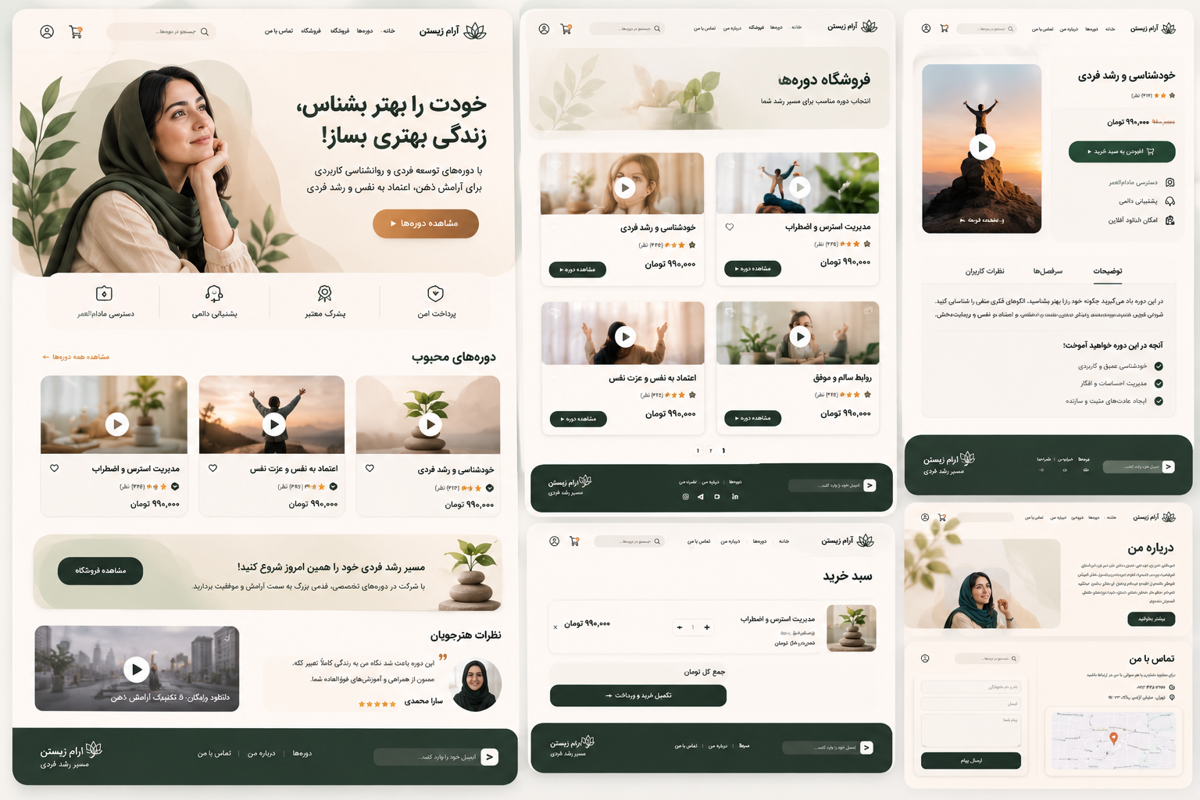
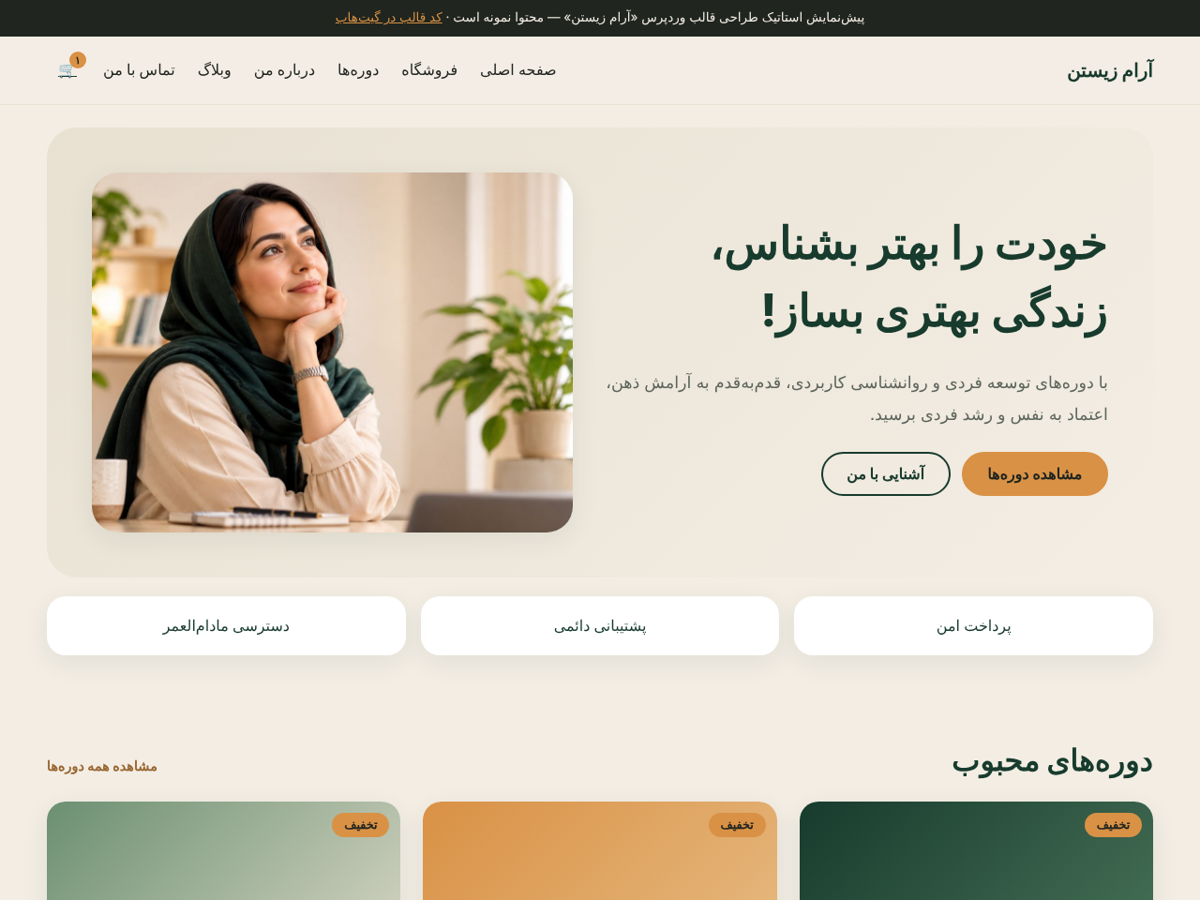
Add files via upload

diff --git a/assets/main.css b/assets/main.css
@@ -1,0 +1,187 @@
+:root{--green:#173B2D;--cream:#F3EDE4;--beige:#E8E1D2;--orange:#D99145;--white:#fff;--text:#20251F;--muted:#5d655c;--r:20px;--shadow:0 8px 28px rgba(23,59,45,.08);--font:'Vazirmatn',Tahoma,system-ui,sans-serif}
+*,*::before,*::after{box-sizing:border-box}
+html{scroll-behavior:smooth}
+body{margin:0;background:var(--cream);color:var(--text);font:400 1rem/1.9 var(--font);direction:rtl;text-align:right;-webkit-font-smoothing:antialiased}
+img{max-width:100%;height:auto;display:block}
+a{color:var(--green)}
+h1,h2,h3{line-height:1.5;color:var(--green);margin:0 0 .5em;font-weight:800}
+h1{font-size:clamp(1.9rem,4vw,3rem)}h2{font-size:clamp(1.4rem,2.6vw,2rem)}h3{font-size:1.15rem}
+.wrap{width:min(1180px,100% - 2rem);margin-inline:auto}
+.narrow{max-width:820px}.center{text-align:center}
+.section{padding-block:clamp(2.5rem,6vw,4.5rem)}
+.sr{position:absolute;width:1px;height:1px;overflow:hidden;clip:rect(0 0 0 0)}
+.skip{position:absolute;inset-inline-start:1rem;top:-4rem;background:var(--green);color:#fff;padding:.5rem 1rem;border-radius:8px;z-index:100}.skip:focus{top:1rem}
+:focus-visible{outline:3px solid var(--orange);outline-offset:2px}
+.notice{background:var(--beige);border-radius:12px;padding:1rem;color:var(--muted)}
+/* buttons */
+.btn,.button,button.button,.woocommerce a.button,.woocommerce button.button,.woocommerce input.button,.woocommerce #respond input#submit{display:inline-flex;align-items:center;justify-content:center;gap:.5rem;background:var(--green);color:#fff;border:2px solid var(--green);border-radius:999px;padding:.7rem 1.6rem;font:700 1rem var(--font);text-decoration:none;cursor:pointer;min-height:46px;transition:background .2s,transform .2s}
+.btn:hover,.woocommerce a.button:hover,.woocommerce button.button:hover{background:#0f2a20;color:#fff}
+.btn-orange{background:var(--orange);border-color:var(--orange);color:#20251F}.btn-orange:hover{background:#c9812f;color:#20251F}
+.btn-ghost{background:transparent;color:var(--green)}.btn-ghost:hover{background:var(--green);color:#fff}
+.btn-sm{padding:.4rem 1.1rem;min-height:38px;font-size:.9rem}
+.woocommerce a.button.alt,.woocommerce button.button.alt,.woocommerce #respond input#submit.alt{background:var(--orange);border-color:var(--orange);color:#20251F}
+.woocommerce a.button.alt:hover,.woocommerce button.button.alt:hover{background:#c9812f;color:#20251F}
+.icon-btn{position:relative;display:inline-flex;align-items:center;justify-content:center;width:44px;height:44px;border:0;background:transparent;color:var(--green);border-radius:50%;cursor:pointer}
+.icon-btn:hover{background:var(--beige)}
+/* header */
+.site-header{position:sticky;top:0;z-index:50;background:rgba(243,237,228,.94);backdrop-filter:blur(8px);border-bottom:1px solid var(--beige)}
+.header-row{display:flex;align-items:center;gap:1rem;min-height:72px}
+.brand{text-decoration:none;font-weight:800;font-size:1.25rem;color:var(--green)}
+.brand img{max-height:48px;width:auto}
+.primary-nav{margin-inline-start:auto}
+.menu{list-style:none;margin:0;padding:0;display:flex;gap:1.5rem}
+.menu a{text-decoration:none;color:var(--text);font-weight:500;padding:.4rem 0;border-bottom:2px solid transparent}
+.menu a:hover,.menu .current-menu-item>a{border-color:var(--orange)}
+.menu li{position:relative}.menu .sub-menu{display:none;position:absolute;inset-inline-start:0;top:100%;background:#fff;list-style:none;margin:0;padding:.5rem;border-radius:12px;box-shadow:var(--shadow);min-width:180px}.menu li:hover>.sub-menu,.menu li:focus-within>.sub-menu{display:block}
+.header-tools{display:flex;align-items:center;gap:.25rem}
+.nav-toggle{display:none}
+.cart-count{position:absolute;top:2px;inset-inline-start:2px;min-width:18px;height:18px;border-radius:9px;background:var(--orange);color:#20251F;font-size:.7rem;font-weight:700;line-height:18px;text-align:center;padding:0 4px}
+.cart-count[data-count="0"]{display:none}
+.header-search{background:var(--beige);padding:.75rem 0}.header-search form{display:flex;gap:.5rem}.header-search input{flex:1}
+/* forms */
+input[type=text],input[type=email],input[type=tel],input[type=search],input[type=number],input[type=password],textarea,select,.woocommerce form .form-row input.input-text,.woocommerce form .form-row textarea{width:100%;padding:.7rem 1rem;border:1.5px solid #cfc7b6;border-radius:14px;background:#fff;font:inherit;color:var(--text)}
+input:focus,textarea:focus,select:focus{border-color:var(--green)}
+.form label{display:block;font-weight:500;margin-bottom:.25rem}
+.form p{margin:0 0 1rem}.field-error{display:block;color:#a12a1f;font-size:.875rem;margin-top:.25rem}
+input.invalid,textarea.invalid{border-color:#a12a1f}
+.form-msg{padding:.75rem 1rem;border-radius:12px}.form-msg.ok{background:#dcebe1;color:#0f3a24}.form-msg.err{background:#f6dcd8;color:#7a1f16}
+.hp{position:absolute;inset-inline-start:-9999px}
+.btn[disabled]{opacity:.6;cursor:wait}
+/* hero */
+.hero{padding-top:1.5rem}
+.hero-grid{display:grid;grid-template-columns:1.05fr 1fr;gap:2rem;align-items:center;background:linear-gradient(135deg,var(--beige),var(--cream));border-radius:32px;padding:clamp(1.5rem,4vw,3rem);overflow:hidden}
+.hero-text p{font-size:1.1rem;color:var(--muted);max-width:34em}
+.actions{display:flex;flex-wrap:wrap;gap:.75rem;margin-top:1.5rem}
+.hero-figure{margin:0}.hero-figure img{border-radius:28px;aspect-ratio:4/3;object-fit:cover;object-position:60% 30%;width:100%;box-shadow:var(--shadow)}
+.trust{list-style:none;display:grid;grid-template-columns:repeat(3,1fr);gap:1rem;padding:0;margin-top:1.25rem}
+.trust li{display:flex;align-items:center;justify-content:center;gap:.6rem;background:#fff;border-radius:var(--r);padding:1rem;box-shadow:var(--shadow);color:var(--green);font-weight:500}
+.page-hero{background:var(--beige);padding:clamp(2rem,5vw,3.5rem) 0}
+.page-hero p{color:var(--muted);max-width:36em}
+.split{display:grid;grid-template-columns:1fr 1fr;gap:2rem;align-items:center}
+.split img{border-radius:var(--r);box-shadow:var(--shadow)}
+/* sections */
+.sec-head{display:flex;justify-content:space-between;align-items:baseline;gap:1rem}
+.more{font-size:.9rem;color:var(--orange);font-weight:700;text-decoration:none;filter:brightness(.7)}
+.about-strip{background:var(--beige)}
+.benefits{list-style:none;display:grid;grid-template-columns:repeat(auto-fit,minmax(170px,1fr));gap:1rem;padding:0}
+.benefits li,.checks li{display:flex;align-items:center;gap:.6rem}
+.benefits li{background:#fff;border-radius:var(--r);padding:1.1rem;box-shadow:var(--shadow);font-weight:500}
+.benefits .icon,.checks .icon{color:var(--green);flex:none}
+.checks{list-style:none;padding:0}.checks li{margin-bottom:.4rem}
+.cta-band{display:flex;flex-wrap:wrap;gap:1.5rem;align-items:center;justify-content:space-between;background:var(--green);color:#fff;border-radius:28px;padding:clamp(1.5rem,4vw,2.5rem)}
+.cta-band h2{color:#fff;margin:0}.cta-band p{margin:.25rem 0 0;color:#e1e8e3}
+/* course cards + WC loop */
+.course-grid,.woocommerce ul.products{display:grid;grid-template-columns:repeat(3,1fr);gap:1.5rem;list-style:none;margin:0;padding:0}
+.woocommerce ul.products::before,.woocommerce ul.products::after{display:none}
+.course-card,.woocommerce ul.products li.product{background:#fff;border-radius:var(--r);box-shadow:var(--shadow);overflow:hidden;width:auto!important;margin:0!important;float:none!important;padding:0 0 1rem;display:flex;flex-direction:column;position:relative}
+.course-thumb{position:relative;display:block}.course-thumb img,.woocommerce ul.products li.product img{width:100%;aspect-ratio:16/11;object-fit:cover;margin:0!important}
+.course-body{padding:1rem 1.25rem 0;display:flex;flex-direction:column;gap:.4rem;flex:1}
+.course-body h3 a,.woocommerce-loop-product__title{color:var(--green);text-decoration:none}
+.course-body p,.loop-desc{margin:0;color:var(--muted);font-size:.92rem;line-height:1.8}
+.course-foot{display:flex;justify-content:space-between;align-items:center;gap:.5rem;margin-top:auto;padding-top:.75rem}
+.price,.woocommerce .price,.woocommerce div.product p.price{color:var(--green)!important;font-weight:800}
+.price del{color:var(--muted);font-weight:400;margin-inline-end:.4rem}.price ins{text-decoration:none}
+.badge,.woocommerce span.onsale{position:absolute;top:12px;inset-inline-start:12px;background:var(--orange);color:#20251F;border-radius:999px;font-weight:700;font-size:.8rem;padding:.15rem .8rem;min-height:0;min-width:0;line-height:1.7;margin:0}
+.woocommerce ul.products li.product .woocommerce-loop-product__title,.woocommerce ul.products li.product .price,.woocommerce ul.products li.product .star-rating,.woocommerce ul.products li.product .loop-desc{margin-inline:1.25rem}
+.woocommerce ul.products li.product .button{margin:.75rem 1.25rem 0;align-self:flex-start}
+.stars{display:inline-flex;color:#cfc7b6}.stars .on{color:var(--orange)}.stars .icon{width:16px;height:16px}
+.woocommerce .star-rating span::before{color:var(--orange)}
+.muted{color:var(--muted);font-size:.85rem}
+/* shop layout */
+.woocommerce-page #main>.woocommerce-notices-wrapper,.woocommerce-page #main>.woocommerce-breadcrumb{width:min(1180px,100% - 2rem);margin:1rem auto 0}
+.archive.woocommerce #primary,.post-type-archive-product #main,.tax-product_cat #main{display:block}
+.shop-wrap{display:grid;grid-template-columns:260px 1fr;gap:2rem}
+.woocommerce .woocommerce-result-count,.woocommerce .woocommerce-ordering{margin-bottom:1rem}
+.shop-side .widget{background:#fff;border-radius:var(--r);padding:1.1rem 1.25rem;box-shadow:var(--shadow);margin-bottom:1rem}
+.shop-side ul{list-style:none;padding:0;margin:0}.shop-side li{padding:.2rem 0}.shop-side a{text-decoration:none}
+.widget-title{font-size:1rem}
+.woocommerce .widget_price_filter .ui-slider .ui-slider-range{background:var(--orange)}
+.woocommerce .widget_price_filter .ui-slider .ui-slider-handle{background:var(--green)}
+.woocommerce nav.woocommerce-pagination ul{border:0;display:flex;gap:.4rem;justify-content:center}
+.woocommerce nav.woocommerce-pagination ul li{border:0}
+.woocommerce nav.woocommerce-pagination ul li a,.woocommerce nav.woocommerce-pagination ul li span{border-radius:50%;min-width:40px;line-height:40px;padding:0;text-align:center;background:#fff}
+.woocommerce nav.woocommerce-pagination ul li span.current{background:var(--green);color:#fff}
+/* single product */
+.woocommerce div.product{display:grid;grid-template-columns:1fr 1fr;gap:2rem;padding-block:2rem}
+.woocommerce div.product div.images,.woocommerce div.product div.summary{float:none;width:auto;margin:0}
+.woocommerce div.product div.images img{border-radius:var(--r)}
+.woocommerce div.product .product_title{font-size:clamp(1.6rem,3vw,2.2rem)}
+.woocommerce div.product p.price{font-size:1.6rem}
+.woocommerce div.product form.cart .button{min-height:54px;font-size:1.1rem;padding-inline:2.5rem;box-shadow:0 8px 20px rgba(217,145,69,.35)}
+.woocommerce .quantity .qty{width:5rem;border-radius:14px;border:1.5px solid #cfc7b6;padding:.6rem}
+.course-features{list-style:none;padding:0;margin:1.25rem 0}.course-features li{display:flex;gap:.6rem;align-items:center;margin-bottom:.3rem}.course-features .icon{color:var(--green)}
+.woocommerce div.product .woocommerce-tabs,.woocommerce div.product .related,.woocommerce div.product .instructor{grid-column:1/-1}
+.woocommerce div.product .woocommerce-tabs ul.tabs{padding:0;margin:0 0 1rem;display:flex;gap:1rem;flex-wrap:wrap;border-bottom:1px solid var(--beige);overflow:visible}
+.woocommerce div.product .woocommerce-tabs ul.tabs::before,.woocommerce div.product .woocommerce-tabs ul.tabs li::before,.woocommerce div.product .woocommerce-tabs ul.tabs li::after{display:none}
+.woocommerce div.product .woocommerce-tabs ul.tabs li{background:none;border:0;margin:0;padding:0;border-radius:0}
+.woocommerce div.product .woocommerce-tabs ul.tabs li a{padding:.6rem .2rem;color:var(--muted);font-weight:700}
+.woocommerce div.product .woocommerce-tabs ul.tabs li.active a{color:var(--green);box-shadow:0 2px 0 var(--orange)}
+.woocommerce div.product .woocommerce-tabs .panel{background:#fff;border-radius:var(--r);padding:1.5rem;box-shadow:var(--shadow)}
+.curriculum{padding-inline-start:1.4rem}.curriculum li{padding:.4rem 0;border-bottom:1px dashed var(--beige)}
+.instructor{display:flex;gap:1.25rem;align-items:center;background:#fff;border-radius:var(--r);padding:1.25rem;box-shadow:var(--shadow)}
+.instructor img{width:96px;height:96px;border-radius:50%;object-fit:cover;object-position:60% 25%}.instructor h3,.instructor p{margin:0 0 .3rem}
+.sticky-cta{display:none}
+/* cart + checkout + account */
+.woocommerce table.shop_table{border:0;border-collapse:separate;border-spacing:0 .75rem;background:none}
+.woocommerce table.shop_table th,.woocommerce table.shop_table td{border:0;background:#fff;padding:1rem}
+.woocommerce table.shop_table td:first-child,.woocommerce table.shop_table th:first-child{border-radius:0 var(--r) var(--r) 0}
+.woocommerce table.shop_table td:last-child,.woocommerce table.shop_table th:last-child{border-radius:var(--r) 0 0 var(--r)}
+.woocommerce table.cart img{width:72px;border-radius:12px}
+.woocommerce a.remove{color:#a12a1f!important;font-size:1.4rem}.woocommerce a.remove:hover{background:#a12a1f;color:#fff!important}
+.woocommerce .cart-collaterals .cart_totals{float:none;width:min(480px,100%);margin-inline-start:0}
+.woocommerce .cart-collaterals .cart_totals h2{font-size:1.3rem}
+.woocommerce #coupon_code{width:12rem;display:inline-block}
+.woocommerce .wc-proceed-to-checkout a.checkout-button{background:var(--green);color:#fff;font-size:1.05rem;padding:1rem}
+.woocommerce-message,.woocommerce-info,.woocommerce-error{border:0;border-radius:14px;background:var(--beige);color:var(--text)}
+.woocommerce-message::before,.woocommerce-info::before{color:var(--green)}
+.woocommerce-checkout #payment{background:var(--beige);border-radius:var(--r)}
+.woocommerce-account .woocommerce-MyAccount-navigation ul{list-style:none;padding:0}
+.entry>.woocommerce,.woocommerce-cart .entry,.woocommerce-checkout .entry,.woocommerce-account .entry{max-width:1100px}
+/* posts, pages */
+.post-grid{display:grid;grid-template-columns:repeat(3,1fr);gap:1.5rem}
+.post-card{background:#fff;border-radius:var(--r);box-shadow:var(--shadow);overflow:hidden}
+.post-card img{width:100%;aspect-ratio:16/10;object-fit:cover}.post-card-body{padding:1rem 1.25rem}.post-card h2,.post-card h3{font-size:1.1rem;margin:0}.post-card a{text-decoration:none}
+.entry img{border-radius:var(--r)}.meta{color:var(--muted)}
+/* testimonials, faq */
+.sec-title{margin-bottom:1.25rem}
+.slider{display:flex;align-items:center;gap:.5rem}
+.slider-track{display:flex;gap:1rem;overflow-x:auto;scroll-snap-type:x mandatory;scrollbar-width:none;flex:1;padding:.5rem .25rem}
+.slider-track::-webkit-scrollbar{display:none}
+.review{flex:0 0 min(360px,85%);scroll-snap-align:start;margin:0;background:#fff;border-radius:var(--r);padding:1.5rem;box-shadow:var(--shadow)}
+.review footer{display:flex;align-items:center;gap:.75rem;margin-top:1rem}.review img{border-radius:50%;width:56px;height:56px;object-fit:cover}.review cite{font-style:normal;font-weight:700;color:var(--green)}
+.faq-item{background:#fff;border-radius:16px;margin-bottom:.75rem;box-shadow:var(--shadow)}
+.faq-item h3{margin:0}.faq-item button{all:unset;box-sizing:border-box;display:flex;justify-content:space-between;width:100%;padding:1rem 1.25rem;cursor:pointer;font-weight:700;color:var(--green)}
+.faq-item button:focus-visible{outline:3px solid var(--orange)}
+.faq-item button::after{content:"+";font-size:1.4rem;line-height:1}.faq-item button[aria-expanded=true]::after{content:"−"}
+.faq-panel{padding:0 1.25rem 1.25rem;color:var(--muted)}
+/* contact */
+.contact-grid{display:grid;grid-template-columns:1.2fr 1fr;gap:2rem}
+.contact-info{background:#fff;border-radius:var(--r);padding:1.5rem;box-shadow:var(--shadow);align-self:start}
+.map{width:100%;height:240px;border:0;border-radius:var(--r);margin-top:1rem}
+.social{display:flex;gap:1rem;flex-wrap:wrap;margin:.75rem 0}
+/* footer */
+.site-footer{background:var(--green);color:#e8efe9;margin-top:3rem;padding:2.5rem 0 1rem;border-radius:32px 32px 0 0}
+.site-footer a{color:#fff}
+.footer-row{display:grid;grid-template-columns:1.2fr 1fr 1.2fr;gap:2rem;align-items:start}
+.footer-brand{display:flex;flex-direction:column;gap:.25rem}.footer-brand strong{font-size:1.3rem;color:#fff}
+.site-footer .menu{flex-direction:column;gap:.4rem}.site-footer .menu a{color:#e8efe9}
+.newsletter{display:flex;flex-direction:column;gap:.75rem;align-items:flex-start}
+.site-footer .btn{background:var(--orange);border-color:var(--orange);color:#20251F}
+.copy{margin-top:2rem;padding-top:1rem;border-top:1px solid rgba(255,255,255,.15);font-size:.85rem;color:#b9c7bd}
+/* responsive */
+@media (max-width:1024px){.course-grid,.woocommerce ul.products,.post-grid{grid-template-columns:repeat(2,1fr)}.hero-grid,.split{grid-template-columns:1fr}.shop-wrap{grid-template-columns:1fr}.footer-row{grid-template-columns:1fr 1fr}}
+@media (max-width:820px){
+	.nav-toggle{display:inline-flex}
+	.primary-nav{position:fixed;inset:72px 0 auto 0;background:var(--cream);padding:1rem;border-bottom:1px solid var(--beige);transform:translateY(-120%);visibility:hidden;transition:transform .25s,visibility .25s;margin:0;max-height:calc(100vh - 72px);overflow:auto}
+	.primary-nav.open{transform:none;visibility:visible}
+	.menu{flex-direction:column;gap:0}.menu a{display:block;padding:.8rem .25rem;border-bottom:1px solid var(--beige)}
+	.menu .sub-menu{position:static;display:block;box-shadow:none;background:none}
+	.brand{margin-inline-end:auto}.header-row{gap:.25rem}
+	.woocommerce div.product{grid-template-columns:1fr}
+	.contact-grid{grid-template-columns:1fr}
+	.sticky-cta{display:flex;position:fixed;inset:auto 0 0 0;z-index:60;background:#fff;box-shadow:0 -6px 20px rgba(0,0,0,.12);padding:.6rem 1rem calc(.6rem + env(safe-area-inset-bottom));align-items:center;justify-content:space-between;gap:1rem}
+	body.single-product{padding-bottom:84px}
+	.woocommerce table.shop_table_responsive tr td{background:#fff}
+}
+@media (max-width:600px){.course-grid,.woocommerce ul.products,.post-grid{grid-template-columns:1fr}.trust{grid-template-columns:1fr}.footer-row{grid-template-columns:1fr}.instructor{flex-direction:column;text-align:center}}
+@media (prefers-reduced-motion:reduce){*{transition:none!important;scroll-behavior:auto!important}}

diff --git a/index.html b/index.html
@@ -1,0 +1,6 @@
+<!DOCTYPE html><html lang="fa" dir="rtl"><head><meta charset="utf-8"><meta name="viewport" content="width=device-width,initial-scale=1"><title>صفحه اصلی | آرام زیستن</title><link rel="stylesheet" href="https://fonts.googleapis.com/css2?family=Vazirmatn:wght@300;400;500;700;800&display=swap"><link rel="stylesheet" href="assets/main.css"><link rel="stylesheet" href="assets/preview.css"></head><body><div class="demo-bar">پیشنمایش استاتیک طراحی قالب وردپرس «آرام زیستن» — محتوا نمونه است · <a href="https://github.com/mohadeseh-tavakoli/Aram-zist">کد قالب در گیتهاب</a></div><header class="site-header"><div class="wrap header-row"><button class="icon-btn nav-toggle" aria-expanded="false" aria-controls="primary-nav" aria-label="منو">☰</button><a class="brand" href="index.html"><span class="brand-name">آرام زیستن</span></a><nav id="primary-nav" class="primary-nav"><ul class="menu"><li><a href="index.html">صفحه اصلی</a></li><li><a href="shop.html">فروشگاه</a></li><li><a href="shop.html">دورهها</a></li><li><a href="about.html">درباره من</a></li><li><a href="index.html">وبلاگ</a></li><li><a href="contact.html">تماس با من</a></li></ul></nav><div class="header-tools"><a class="icon-btn" href="cart.html" aria-label="سبد خرید">🛒<span class="cart-count">۱</span></a></div></div></header><main><section class="hero"><div class="wrap hero-grid"><div class="hero-text"><h1>خودت را بهتر بشناس، زندگی بهتری بساز!</h1><p>با دورههای توسعه فردی و روانشناسی کاربردی، قدمبهقدم به آرامش ذهن، اعتماد به نفس و رشد فردی برسید.</p><div class="actions"><a class="btn btn-orange" href="shop.html">مشاهده دورهها</a><a class="btn btn-ghost" href="about.html">آشنایی با من</a></div></div><figure class="hero-figure"><img src="assets/portrait.jpg" alt="تصویر نمونه"></figure></div><ul class="wrap trust"><li>پرداخت امن</li><li>پشتیبانی دائمی</li><li>دسترسی مادامالعمر</li></ul></section>
+<section class="section wrap"><div class="sec-head"><h2 class="sec-title">دورههای محبوب</h2><a class="more" href="shop.html">مشاهده همه دورهها</a></div><div class="course-grid"><article class="course-card"><a class="course-thumb" href="product.html"><span class="ph g1"></span><span class="badge">تخفیف</span></a><div class="course-body"><h3><a href="product.html">خودشناسی و رشد فردی</a></h3><p>توضیح کوتاه نمونه دربارهٔ دوره.</p><div class="course-foot"><span class="price"><del>۱٬۲۹۰٬۰۰۰</del> ۹۹۰٬۰۰۰ تومان</span><a class="btn btn-sm" href="product.html">مشاهده دوره</a></div></div></article><article class="course-card"><a class="course-thumb" href="product.html"><span class="ph g2"></span><span class="badge">تخفیف</span></a><div class="course-body"><h3><a href="product.html">مدیریت استرس و اضطراب</a></h3><p>توضیح کوتاه نمونه دربارهٔ دوره.</p><div class="course-foot"><span class="price"><del>۱٬۲۹۰٬۰۰۰</del> ۹۹۰٬۰۰۰ تومان</span><a class="btn btn-sm" href="product.html">مشاهده دوره</a></div></div></article><article class="course-card"><a class="course-thumb" href="product.html"><span class="ph g3"></span><span class="badge">تخفیف</span></a><div class="course-body"><h3><a href="product.html">اعتماد به نفس و عزت نفس</a></h3><p>توضیح کوتاه نمونه دربارهٔ دوره.</p><div class="course-foot"><span class="price"><del>۱٬۲۹۰٬۰۰۰</del> ۹۹۰٬۰۰۰ تومان</span><a class="btn btn-sm" href="product.html">مشاهده دوره</a></div></div></article></div></section>
+<section class="section about-strip"><div class="wrap split"><img src="assets/portrait.jpg" alt=""><div><h2 class="sec-title">درباره روانشناس</h2><p>متن نمونه برای معرفی کوتاه. در قالب واقعی از بخش شخصیسازی وردپرس ویرایش میشود.</p><a class="btn" href="about.html">بیشتر بخوانید</a></div></div></section>
+<section class="section wrap"><h2 class="sec-title">در این مسیر چه میآموزید؟</h2><ul class="benefits"><li>خودشناسی</li><li>اعتماد به نفس</li><li>مدیریت استرس</li><li>روابط بهتر</li><li>هوش هیجانی</li></ul></section>
+<section class="section wrap narrow"><h2 class="sec-title">سؤالات متداول</h2><div class="faq"><div class="faq-item"><h3><button aria-expanded="false" onclick="var p=this.parentNode.nextElementSibling;var o=this.getAttribute('aria-expanded')=='true';this.setAttribute('aria-expanded',!o);p.hidden=o">آیا دسترسی به دورهها همیشگی است؟</button></h3><div class="faq-panel" hidden>پاسخ نمونه.</div></div></div></section>
+<section class="wrap section"><div class="cta-band"><div><h2>مسیر رشد فردی خود را همین امروز شروع کنید!</h2><p>با شرکت در دورههای تخصصی، قدمی بزرگ بردارید.</p></div><a class="btn btn-orange" href="shop.html">مشاهده فروشگاه</a></div></section></main><footer class="site-footer"><div class="wrap footer-row"><div class="footer-brand"><strong>آرام زیستن</strong><span>مسیر رشد فردی</span></div><nav><ul class="menu"><li><a href="index.html">صفحه اصلی</a></li><li><a href="shop.html">فروشگاه</a></li><li><a href="shop.html">دورهها</a></li><li><a href="about.html">درباره من</a></li><li><a href="index.html">وبلاگ</a></li><li><a href="contact.html">تماس با من</a></li></ul></nav><div class="newsletter"><span>برای مشاوره از فرم تماس استفاده کنید.</span><a class="btn" href="contact.html">تماس با من</a></div></div><div class="wrap copy">© آرام زیستن</div></footer><script>var n=document.querySelector('.nav-toggle'),m=document.getElementById('primary-nav');n.onclick=function(){var o=m.classList.toggle('open');n.setAttribute('aria-expanded',o)}</script></body></html>

diff --git a/shop.html b/shop.html
@@ -1,0 +1,1 @@
+<!DOCTYPE html><html lang="fa" dir="rtl"><head><meta charset="utf-8"><meta name="viewport" content="width=device-width,initial-scale=1"><title>فروشگاه | آرام زیستن</title><link rel="stylesheet" href="https://fonts.googleapis.com/css2?family=Vazirmatn:wght@300;400;500;700;800&display=swap"><link rel="stylesheet" href="assets/main.css"><link rel="stylesheet" href="assets/preview.css"></head><body><div class="demo-bar">پیشنمایش استاتیک طراحی قالب وردپرس «آرام زیستن» — محتوا نمونه است · <a href="https://github.com/mohadeseh-tavakoli/Aram-zist">کد قالب در گیتهاب</a></div><header class="site-header"><div class="wrap header-row"><button class="icon-btn nav-toggle" aria-expanded="false" aria-controls="primary-nav" aria-label="منو">☰</button><a class="brand" href="index.html"><span class="brand-name">آرام زیستن</span></a><nav id="primary-nav" class="primary-nav"><ul class="menu"><li><a href="index.html">صفحه اصلی</a></li><li><a href="shop.html">فروشگاه</a></li><li><a href="shop.html">دورهها</a></li><li><a href="about.html">درباره من</a></li><li><a href="index.html">وبلاگ</a></li><li><a href="contact.html">تماس با من</a></li></ul></nav><div class="header-tools"><a class="icon-btn" href="cart.html" aria-label="سبد خرید">🛒<span class="cart-count">۱</span></a></div></div></header><main><section class="page-hero"><div class="wrap"><h1>فروشگاه دورهها</h1><p>انتخاب دوره مناسب برای مسیر رشد شما</p></div></section><div class="wrap section shop-wrap"><aside class="shop-side"><section class="widget"><h3 class="widget-title">جستجوی دوره</h3><input type="search" placeholder="جستجو…"></section><section class="widget"><h3 class="widget-title">دستهبندیها</h3><ul><li><a href="#">روانشناسی کاربردی</a></li><li><a href="#">مهارتهای ارتباطی</a></li></ul></section></aside><div><div class="course-grid"><article class="course-card"><a class="course-thumb" href="product.html"><span class="ph g1"></span><span class="badge">تخفیف</span></a><div class="course-body"><h3><a href="product.html">خودشناسی و رشد فردی</a></h3><p>توضیح کوتاه نمونه دربارهٔ دوره.</p><div class="course-foot"><span class="price"><del>۱٬۲۹۰٬۰۰۰</del> ۹۹۰٬۰۰۰ تومان</span><a class="btn btn-sm" href="product.html">مشاهده دوره</a></div></div></article><article class="course-card"><a class="course-thumb" href="product.html"><span class="ph g2"></span><span class="badge">تخفیف</span></a><div class="course-body"><h3><a href="product.html">مدیریت استرس و اضطراب</a></h3><p>توضیح کوتاه نمونه دربارهٔ دوره.</p><div class="course-foot"><span class="price"><del>۱٬۲۹۰٬۰۰۰</del> ۹۹۰٬۰۰۰ تومان</span><a class="btn btn-sm" href="product.html">مشاهده دوره</a></div></div></article><article class="course-card"><a class="course-thumb" href="product.html"><span class="ph g3"></span><span class="badge">تخفیف</span></a><div class="course-body"><h3><a href="product.html">اعتماد به نفس و عزت نفس</a></h3><p>توضیح کوتاه نمونه دربارهٔ دوره.</p><div class="course-foot"><span class="price"><del>۱٬۲۹۰٬۰۰۰</del> ۹۹۰٬۰۰۰ تومان</span><a class="btn btn-sm" href="product.html">مشاهده دوره</a></div></div></article><article class="course-card"><a class="course-thumb" href="product.html"><span class="ph g4"></span><span class="badge">تخفیف</span></a><div class="course-body"><h3><a href="product.html">روابط سالم و موفق</a></h3><p>توضیح کوتاه نمونه دربارهٔ دوره.</p><div class="course-foot"><span class="price"><del>۱٬۲۹۰٬۰۰۰</del> ۹۹۰٬۰۰۰ تومان</span><a class="btn btn-sm" href="product.html">مشاهده دوره</a></div></div></article><article class="course-card"><a class="course-thumb" href="product.html"><span class="ph g1"></span><span class="badge">تخفیف</span></a><div class="course-body"><h3><a href="product.html">هوش هیجانی</a></h3><p>توضیح کوتاه نمونه دربارهٔ دوره.</p><div class="course-foot"><span class="price"><del>۱٬۲۹۰٬۰۰۰</del> ۹۹۰٬۰۰۰ تومان</span><a class="btn btn-sm" href="product.html">مشاهده دوره</a></div></div></article><article class="course-card"><a class="course-thumb" href="product.html"><span class="ph g2"></span><span class="badge">تخفیف</span></a><div class="course-body"><h3><a href="product.html">آرامش ذهن</a></h3><p>توضیح کوتاه نمونه دربارهٔ دوره.</p><div class="course-foot"><span class="price"><del>۱٬۲۹۰٬۰۰۰</del> ۹۹۰٬۰۰۰ تومان</span><a class="btn btn-sm" href="product.html">مشاهده دوره</a></div></div></article></div></div></div></main><footer class="site-footer"><div class="wrap footer-row"><div class="footer-brand"><strong>آرام زیستن</strong><span>مسیر رشد فردی</span></div><nav><ul class="menu"><li><a href="index.html">صفحه اصلی</a></li><li><a href="shop.html">فروشگاه</a></li><li><a href="shop.html">دورهها</a></li><li><a href="about.html">درباره من</a></li><li><a href="index.html">وبلاگ</a></li><li><a href="contact.html">تماس با من</a></li></ul></nav><div class="newsletter"><span>برای مشاوره از فرم تماس استفاده کنید.</span><a class="btn" href="contact.html">تماس با من</a></div></div><div class="wrap copy">© آرام زیستن</div></footer><script>var n=document.querySelector('.nav-toggle'),m=document.getElementById('primary-nav');n.onclick=function(){var o=m.classList.toggle('open');n.setAttribute('aria-expanded',o)}</script></body></html>

diff --git a/assets/main.js b/assets/main.js
@@ -1,0 +1,77 @@
+(function () {
+	'use strict';
+	var t = window.aramI18n || {};
+	var $ = function (s, c) { return (c || document).querySelector(s); };
+	var $$ = function (s, c) { return Array.prototype.slice.call((c || document).querySelectorAll(s)); };
+
+	/* Mobile navigation */
+	var navBtn = $('.nav-toggle'), nav = $('#primary-nav');
+	if (navBtn && nav) {
+		navBtn.addEventListener('click', function () {
+			var open = nav.classList.toggle('open');
+			navBtn.setAttribute('aria-expanded', String(open));
+		});
+		document.addEventListener('keydown', function (e) {
+			if (e.key === 'Escape' && nav.classList.contains('open')) { nav.classList.remove('open'); navBtn.setAttribute('aria-expanded', 'false'); navBtn.focus(); }
+		});
+	}
+
+	/* Header search */
+	var sBtn = $('.search-toggle'), sBox = $('#header-search');
+	if (sBtn && sBox) {
+		sBtn.addEventListener('click', function () {
+			var show = sBox.hasAttribute('hidden');
+			if (show) { sBox.removeAttribute('hidden'); $('input[type=search]', sBox).focus(); } else { sBox.setAttribute('hidden', ''); }
+			sBtn.setAttribute('aria-expanded', String(show));
+		});
+	}
+
+	/* FAQ accordion */
+	$$('.faq-item button').forEach(function (b) {
+		b.addEventListener('click', function () {
+			var open = b.getAttribute('aria-expanded') === 'true';
+			b.setAttribute('aria-expanded', String(!open));
+			var p = document.getElementById(b.getAttribute('aria-controls'));
+			if (p) { p.hidden = open; }
+		});
+	});
+
+	/* Testimonial slider (scroll-snap with buttons; RTL aware) */
+	$$('[data-slider]').forEach(function (s) {
+		var track = $('.slider-track', s);
+		var step = function (dir) { track.scrollBy({ left: dir * (track.clientWidth * 0.8), behavior: 'smooth' }); };
+		// In RTL, scrollLeft is negative and "next" moves toward negative values.
+		$('.slider-next', s).addEventListener('click', function () { step(-1); });
+		$('.slider-prev', s).addEventListener('click', function () { step(1); });
+	});
+
+	/* Contact form validation */
+	var form = $('#contact-form');
+	if (form) {
+		var clear = function (f) { f.classList.remove('invalid'); var e = f.parentNode.querySelector('.field-error'); if (e) { e.remove(); } };
+		var fail = function (f, msg) { clear(f); f.classList.add('invalid'); var e = document.createElement('span'); e.className = 'field-error'; e.setAttribute('role', 'alert'); e.textContent = msg; f.parentNode.appendChild(e); return false; };
+		form.addEventListener('submit', function (ev) {
+			var ok = true, first = null;
+			['aram_name', 'aram_email', 'aram_subject', 'aram_message', 'aram_phone'].forEach(function (id) {
+				var f = document.getElementById(id); clear(f);
+				var v = f.value.trim(), bad = false;
+				if (id !== 'aram_phone' && !v) { bad = !fail(f, t.required); }
+				else if (id === 'aram_email' && !/^[^\s@]+@[^\s@]+\.[^\s@]+$/.test(v)) { bad = !fail(f, t.email); }
+				else if (id === 'aram_message' && v.length < 10) { bad = !fail(f, t.short); }
+				else if (id === 'aram_phone' && v && !/^[\d\s+\-()\u06F0-\u06F9]{7,20}$/.test(v)) { bad = !fail(f, t.phone); }
+				if (bad) { ok = false; first = first || f; }
+			});
+			if (!ok) { ev.preventDefault(); first.focus(); return; }
+			var b = $('button[type=submit]', form); b.disabled = true; b.textContent = t.sending;
+		});
+	}
+
+	/* Sticky buy bar: jump to the real WooCommerce add-to-cart form */
+	var buy = $('[data-scroll-buy]');
+	if (buy) {
+		buy.addEventListener('click', function (e) {
+			var f = $('form.cart');
+			if (f) { e.preventDefault(); f.scrollIntoView({ behavior: 'smooth', block: 'center' }); var btn = $('button[type=submit]', f); if (btn) { btn.focus({ preventScroll: true }); } }
+		});
+	}
+})();

diff --git a/product.html b/product.html
@@ -1,0 +1,1 @@
+<!DOCTYPE html><html lang="fa" dir="rtl"><head><meta charset="utf-8"><meta name="viewport" content="width=device-width,initial-scale=1"><title>دوره | آرام زیستن</title><link rel="stylesheet" href="https://fonts.googleapis.com/css2?family=Vazirmatn:wght@300;400;500;700;800&display=swap"><link rel="stylesheet" href="assets/main.css"><link rel="stylesheet" href="assets/preview.css"></head><body><div class="demo-bar">پیشنمایش استاتیک طراحی قالب وردپرس «آرام زیستن» — محتوا نمونه است · <a href="https://github.com/mohadeseh-tavakoli/Aram-zist">کد قالب در گیتهاب</a></div><header class="site-header"><div class="wrap header-row"><button class="icon-btn nav-toggle" aria-expanded="false" aria-controls="primary-nav" aria-label="منو">☰</button><a class="brand" href="index.html"><span class="brand-name">آرام زیستن</span></a><nav id="primary-nav" class="primary-nav"><ul class="menu"><li><a href="index.html">صفحه اصلی</a></li><li><a href="shop.html">فروشگاه</a></li><li><a href="shop.html">دورهها</a></li><li><a href="about.html">درباره من</a></li><li><a href="index.html">وبلاگ</a></li><li><a href="contact.html">تماس با من</a></li></ul></nav><div class="header-tools"><a class="icon-btn" href="cart.html" aria-label="سبد خرید">🛒<span class="cart-count">۱</span></a></div></div></header><main><div class="wrap section"><div style="display:grid;grid-template-columns:repeat(auto-fit,minmax(280px,1fr));gap:2rem"><span class="ph g1" style="border-radius:20px"></span><div><h1>خودشناسی و رشد فردی</h1><p class="price"><del>۱٬۲۹۰٬۰۰۰</del> ۹۹۰٬۰۰۰ تومان</p><p>توضیح کوتاه نمونه دربارهٔ دوره.</p><a class="btn btn-orange" href="cart.html">افزودن به سبد خرید</a><ul class="course-features"><li>✓ دسترسی همیشگی</li><li>✓ پشتیبانی دائمی</li></ul></div></div><h3>سرفصلها</h3><ol class="curriculum"><li>مقدمه</li><li>شناخت ارزشها</li><li>مدیریت افکار</li></ol></div></main><footer class="site-footer"><div class="wrap footer-row"><div class="footer-brand"><strong>آرام زیستن</strong><span>مسیر رشد فردی</span></div><nav><ul class="menu"><li><a href="index.html">صفحه اصلی</a></li><li><a href="shop.html">فروشگاه</a></li><li><a href="shop.html">دورهها</a></li><li><a href="about.html">درباره من</a></li><li><a href="index.html">وبلاگ</a></li><li><a href="contact.html">تماس با من</a></li></ul></nav><div class="newsletter"><span>برای مشاوره از فرم تماس استفاده کنید.</span><a class="btn" href="contact.html">تماس با من</a></div></div><div class="wrap copy">© آرام زیستن</div></footer><script>var n=document.querySelector('.nav-toggle'),m=document.getElementById('primary-nav');n.onclick=function(){var o=m.classList.toggle('open');n.setAttribute('aria-expanded',o)}</script></body></html>

diff --git a/contact.html b/contact.html
@@ -1,0 +1,1 @@
+<!DOCTYPE html><html lang="fa" dir="rtl"><head><meta charset="utf-8"><meta name="viewport" content="width=device-width,initial-scale=1"><title>تماس | آرام زیستن</title><link rel="stylesheet" href="https://fonts.googleapis.com/css2?family=Vazirmatn:wght@300;400;500;700;800&display=swap"><link rel="stylesheet" href="assets/main.css"><link rel="stylesheet" href="assets/preview.css"></head><body><div class="demo-bar">پیشنمایش استاتیک طراحی قالب وردپرس «آرام زیستن» — محتوا نمونه است · <a href="https://github.com/mohadeseh-tavakoli/Aram-zist">کد قالب در گیتهاب</a></div><header class="site-header"><div class="wrap header-row"><button class="icon-btn nav-toggle" aria-expanded="false" aria-controls="primary-nav" aria-label="منو">☰</button><a class="brand" href="index.html"><span class="brand-name">آرام زیستن</span></a><nav id="primary-nav" class="primary-nav"><ul class="menu"><li><a href="index.html">صفحه اصلی</a></li><li><a href="shop.html">فروشگاه</a></li><li><a href="shop.html">دورهها</a></li><li><a href="about.html">درباره من</a></li><li><a href="index.html">وبلاگ</a></li><li><a href="contact.html">تماس با من</a></li></ul></nav><div class="header-tools"><a class="icon-btn" href="cart.html" aria-label="سبد خرید">🛒<span class="cart-count">۱</span></a></div></div></header><main><section class="page-hero"><div class="wrap"><h1>تماس با من</h1></div></section><div class="wrap section contact-grid"><form class="form" onsubmit="return false"><p><label>نام</label><input type="text"></p><p><label>ایمیل</label><input type="email"></p><p><label>پیام</label><textarea rows="5"></textarea></p><button class="btn">ارسال پیام</button></form><aside class="contact-info"><p>اطلاعات تماس در قالب واقعی از بخش شخصیسازی وارد میشود.</p></aside></div></main><footer class="site-footer"><div class="wrap footer-row"><div class="footer-brand"><strong>آرام زیستن</strong><span>مسیر رشد فردی</span></div><nav><ul class="menu"><li><a href="index.html">صفحه اصلی</a></li><li><a href="shop.html">فروشگاه</a></li><li><a href="shop.html">دورهها</a></li><li><a href="about.html">درباره من</a></li><li><a href="index.html">وبلاگ</a></li><li><a href="contact.html">تماس با من</a></li></ul></nav><div class="newsletter"><span>برای مشاوره از فرم تماس استفاده کنید.</span><a class="btn" href="contact.html">تماس با من</a></div></div><div class="wrap copy">© آرام زیستن</div></footer><script>var n=document.querySelector('.nav-toggle'),m=document.getElementById('primary-nav');n.onclick=function(){var o=m.classList.toggle('open');n.setAttribute('aria-expanded',o)}</script></body></html>

diff --git a/cart.html b/cart.html
@@ -1,0 +1,1 @@
+<!DOCTYPE html><html lang="fa" dir="rtl"><head><meta charset="utf-8"><meta name="viewport" content="width=device-width,initial-scale=1"><title>سبد خرید | آرام زیستن</title><link rel="stylesheet" href="https://fonts.googleapis.com/css2?family=Vazirmatn:wght@300;400;500;700;800&display=swap"><link rel="stylesheet" href="assets/main.css"><link rel="stylesheet" href="assets/preview.css"></head><body><div class="demo-bar">پیشنمایش استاتیک طراحی قالب وردپرس «آرام زیستن» — محتوا نمونه است · <a href="https://github.com/mohadeseh-tavakoli/Aram-zist">کد قالب در گیتهاب</a></div><header class="site-header"><div class="wrap header-row"><button class="icon-btn nav-toggle" aria-expanded="false" aria-controls="primary-nav" aria-label="منو">☰</button><a class="brand" href="index.html"><span class="brand-name">آرام زیستن</span></a><nav id="primary-nav" class="primary-nav"><ul class="menu"><li><a href="index.html">صفحه اصلی</a></li><li><a href="shop.html">فروشگاه</a></li><li><a href="shop.html">دورهها</a></li><li><a href="about.html">درباره من</a></li><li><a href="index.html">وبلاگ</a></li><li><a href="contact.html">تماس با من</a></li></ul></nav><div class="header-tools"><a class="icon-btn" href="cart.html" aria-label="سبد خرید">🛒<span class="cart-count">۱</span></a></div></div></header><main><section class="page-hero"><div class="wrap"><h1>سبد خرید</h1></div></section><div class="wrap section"><div class="instructor"><span class="ph g1" style="width:96px;border-radius:12px"></span><div><h3>خودشناسی و رشد فردی</h3><p class="price">۹۹۰٬۰۰۰ تومان</p></div></div><p><strong>جمع کل: ۹۹۰٬۰۰۰ تومان</strong></p><a class="btn" href="#">تکمیل خرید و پرداخت</a></div></main><footer class="site-footer"><div class="wrap footer-row"><div class="footer-brand"><strong>آرام زیستن</strong><span>مسیر رشد فردی</span></div><nav><ul class="menu"><li><a href="index.html">صفحه اصلی</a></li><li><a href="shop.html">فروشگاه</a></li><li><a href="shop.html">دورهها</a></li><li><a href="about.html">درباره من</a></li><li><a href="index.html">وبلاگ</a></li><li><a href="contact.html">تماس با من</a></li></ul></nav><div class="newsletter"><span>برای مشاوره از فرم تماس استفاده کنید.</span><a class="btn" href="contact.html">تماس با من</a></div></div><div class="wrap copy">© آرام زیستن</div></footer><script>var n=document.querySelector('.nav-toggle'),m=document.getElementById('primary-nav');n.onclick=function(){var o=m.classList.toggle('open');n.setAttribute('aria-expanded',o)}</script></body></html>

diff --git a/about.html b/about.html
@@ -1,0 +1,1 @@
+<!DOCTYPE html><html lang="fa" dir="rtl"><head><meta charset="utf-8"><meta name="viewport" content="width=device-width,initial-scale=1"><title>درباره من | آرام زیستن</title><link rel="stylesheet" href="https://fonts.googleapis.com/css2?family=Vazirmatn:wght@300;400;500;700;800&display=swap"><link rel="stylesheet" href="assets/main.css"><link rel="stylesheet" href="assets/preview.css"></head><body><div class="demo-bar">پیشنمایش استاتیک طراحی قالب وردپرس «آرام زیستن» — محتوا نمونه است · <a href="https://github.com/mohadeseh-tavakoli/Aram-zist">کد قالب در گیتهاب</a></div><header class="site-header"><div class="wrap header-row"><button class="icon-btn nav-toggle" aria-expanded="false" aria-controls="primary-nav" aria-label="منو">☰</button><a class="brand" href="index.html"><span class="brand-name">آرام زیستن</span></a><nav id="primary-nav" class="primary-nav"><ul class="menu"><li><a href="index.html">صفحه اصلی</a></li><li><a href="shop.html">فروشگاه</a></li><li><a href="shop.html">دورهها</a></li><li><a href="about.html">درباره من</a></li><li><a href="index.html">وبلاگ</a></li><li><a href="contact.html">تماس با من</a></li></ul></nav><div class="header-tools"><a class="icon-btn" href="cart.html" aria-label="سبد خرید">🛒<span class="cart-count">۱</span></a></div></div></header><main><section class="page-hero"><div class="wrap split"><div><h1>درباره من</h1><p>متن نمونه برای معرفی.</p></div><img src="assets/portrait.jpg" alt=""></div></section><div class="wrap section narrow entry"><h2>فلسفه کاری</h2><p>متن نمونه.</p><h2>حوزههای تخصص</h2><ul class="checks"><li>خودشناسی</li><li>مدیریت استرس</li></ul></div></main><footer class="site-footer"><div class="wrap footer-row"><div class="footer-brand"><strong>آرام زیستن</strong><span>مسیر رشد فردی</span></div><nav><ul class="menu"><li><a href="index.html">صفحه اصلی</a></li><li><a href="shop.html">فروشگاه</a></li><li><a href="shop.html">دورهها</a></li><li><a href="about.html">درباره من</a></li><li><a href="index.html">وبلاگ</a></li><li><a href="contact.html">تماس با من</a></li></ul></nav><div class="newsletter"><span>برای مشاوره از فرم تماس استفاده کنید.</span><a class="btn" href="contact.html">تماس با من</a></div></div><div class="wrap copy">© آرام زیستن</div></footer><script>var n=document.querySelector('.nav-toggle'),m=document.getElementById('primary-nav');n.onclick=function(){var o=m.classList.toggle('open');n.setAttribute('aria-expanded',o)}</script></body></html>

diff --git a/assets/preview.css b/assets/preview.css
@@ -1,0 +1,3 @@
+.demo-bar{background:#20251F;color:#f3ede4;text-align:center;font-size:.85rem;padding:.4rem 1rem}.demo-bar a{color:#D99145}
+.ph{aspect-ratio:16/11;display:block}.g1{background:linear-gradient(135deg,#173B2D,#4f7a5e)}.g2{background:linear-gradient(135deg,#D99145,#e8c08a)}.g3{background:linear-gradient(135deg,#6b8f71,#E8E1D2)}.g4{background:linear-gradient(135deg,#E8E1D2,#b9a98a)}
+.shop-wrap{display:grid;grid-template-columns:260px 1fr;gap:2rem}@media(max-width:1024px){.shop-wrap{grid-template-columns:1fr}}

diff --git a/README.md b/README.md
@@ -1,5 +1,9 @@
 # آرام زیستن | Aram Zist — WordPress/WooCommerce theme
 
+**Live design preview:** https://mohadeseh-tavakoli.github.io/Aram-zist/ (static preview of the design; the full theme requires WordPress + WooCommerce)
+
+![Homepage preview](docs/assets/home-desktop.png)
+
 Persian, RTL theme for a psychologist who sells online personal-development courses.
 Courses are standard WooCommerce products; cart, checkout, coupons, orders and payment gateways are native WooCommerce.
 
@@ -7,7 +11,7 @@ Courses are standard WooCommerce products; cart, checkout, coupons, orders and p
 This theme was written without a running WordPress/PHP environment. **Nothing has been executed yet.**
 Not yet verified (please test on a real install, e.g. LocalWP): theme activation, PHP syntax/notices, WooCommerce pages,
 add to cart / cart update / coupon, mail delivery from the contact form, mobile layout in browsers, console errors.
-`screenshot.png` is the supplied design mockup, not a render of this theme. Replace it with a real 1200×900 screenshot.
+`screenshot.png` and the `docs/` preview come from a static HTML render using the theme's CSS, not from a running WordPress site.
 
 ## Install
 1. Zip the `aram-zist` folder (or use the provided `aram-zist.zip`).
